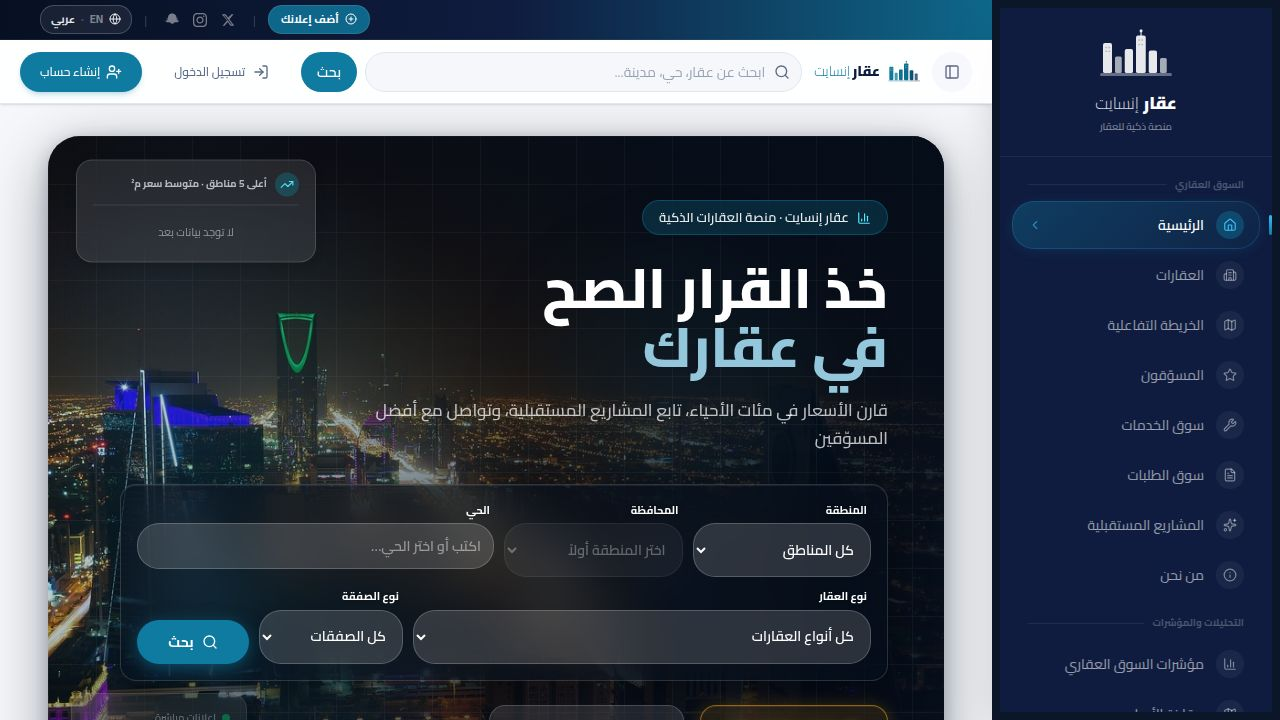
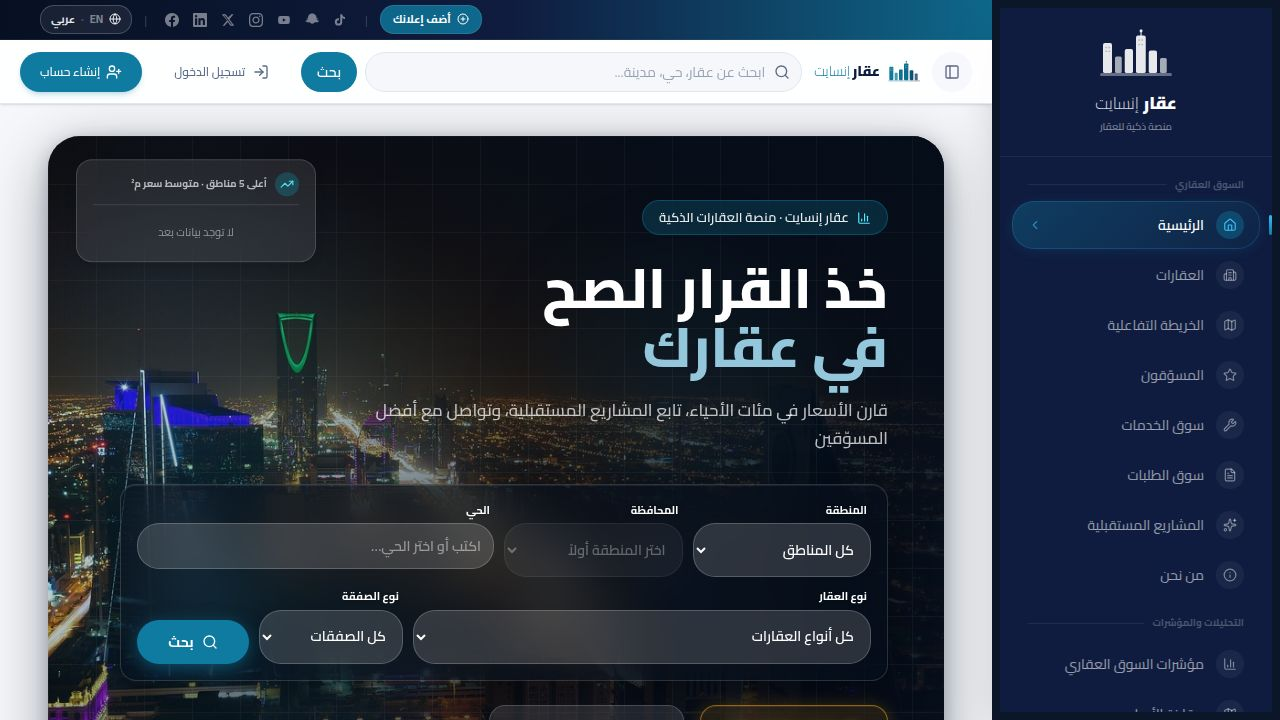
Update currency symbol and display across the platform
Replaces "ر.س" with the new "ريال" symbol and integrates the SAR component for consistent currency display throughout the application.

Replit-Commit-Author: Agent
Replit-Commit-Session-Id: f1be056f-fc4a-4461-962c-60d03f6b6cb3
Replit-Commit-Checkpoint-Type: full_checkpoint
Replit-Commit-Event-Id: 78c0eff8-c467-4001-96b4-43b6fba2e3d2
Replit-Commit-Screenshot-Url: https://storage.googleapis.com/screenshot-production-us-central1/24f6cca2-97a5-4cb7-90fe-09117eb86dda/f1be056f-fc4a-4461-962c-60d03f6b6cb3/ckUJQya
Replit-Helium-Checkpoint-Created: true

diff --git a/artifacts/aqar-monitor/src/pages/home.tsx b/artifacts/aqar-monitor/src/pages/home.tsx
@@ -230,7 +230,7 @@ function ListingCard({ listing }: { listing: Listing }) {
           <div className="mt-auto pt-3 border-t border-border/50">
             {/* السعر + المساحة في صف واحد */}
             <div className="flex items-center justify-between gap-1 mb-1.5">
-              <span className="text-[15px] font-extrabold text-foreground min-w-0 truncate">{formatCurrency(listing.price)}</span>
+              <span className="text-[15px] font-extrabold text-foreground min-w-0 truncate"><SAR value={listing.price} /></span>
               {listing.areaSqm ? (
                 <span className="flex-shrink-0 bg-muted rounded-md px-1.5 py-0.5 text-[11px] text-muted-foreground whitespace-nowrap">
                   {formatNumber(listing.areaSqm)} م²
@@ -543,8 +543,8 @@ export default function Home() {
                       <div key={r.region} className="flex items-center justify-between py-1.5"
                         style={i > 0 ? { borderTop: "1px solid rgba(255,255,255,0.07)" } : {}}>
                         <span className="text-[11px] text-white/80 font-medium truncate max-w-[120px]">{r.region}</span>
-                        <span className="text-[12px] font-black text-white tabular-nums">
-                          {formatCurrency(r.avgPricePerSqm ?? 0)}
+                        <span className="text-[12px] font-black text-white tabular-nums" style={{ "--riyal-filter": "invert(1)" } as React.CSSProperties}>
+                          <SAR value={r.avgPricePerSqm ?? 0} perSqm />
                         </span>
                       </div>
                     ))
@@ -777,7 +777,7 @@ export default function Home() {
                 >
                   {[
                     { label: "إعلان نشط", value: formatNumber(kpis?.totalListings), icon: Building2, color: "#0F7BA0" },
-                    { label: "متوسط سعر المتر", value: formatCurrency(kpis?.avgPricePerSqm), icon: Banknote, color: "#10b981" },
+                    { label: "متوسط سعر المتر", value: <SAR value={kpis?.avgPricePerSqm} perSqm imgClassName="invert" />, icon: Banknote, color: "#10b981" },
                     { label: "إعلانات هذا الشهر", value: formatNumber(kpis?.newLast30Days), icon: Activity, color: "#8b5cf6" },
                   ].map((s, i) => (
                     <div key={s.label} className="flex items-center gap-3 group/stat">
@@ -923,7 +923,8 @@ export default function Home() {
             </div>
             <div className="flex gap-4 overflow-x-auto pb-3 -mx-1 px-1" style={{ scrollbarWidth: "none" }}>
               {(latestServices ?? []).slice(0, 8).map(sp => {
-                const imgs = (() => { try { return JSON.parse(sp.portfolioImages ?? "[]") as string[]; } catch { return []; } })();
+                const imgs = (() => { try { return JSON.parse((sp as any).portfolioImages ?? "[]") as string[]; } catch { return []; } })();
+                const heroImg = getImageSrc(imgs[0]) ?? getImageSrc((sp as any).coverImage) ?? getImageSrc((sp as any).profileImage);
                 return (
                   <Link key={sp.id} href={`/services/${sp.id}`}
                     className="shrink-0 w-[240px] rounded-2xl overflow-hidden flex flex-col hover:-translate-y-0.5 transition-transform"
@@ -931,8 +932,8 @@ export default function Home() {
                   >
                     <div className="h-[120px] relative overflow-hidden"
                       style={{ background: "linear-gradient(135deg, #0B1628 0%, #0F3A5C 60%, #0F7BA0 100%)" }}>
-                      {imgs[0]
-                        ? <img src={getImageSrc(imgs[0])} alt={sp.businessName} className="w-full h-full object-cover" />
+                      {heroImg
+                        ? <img src={heroImg} alt={sp.businessName} className="w-full h-full object-cover" />
                         : <div className="w-full h-full flex items-center justify-center opacity-30">
                             <Wrench className="w-10 h-10 text-white" />
                           </div>
@@ -1427,8 +1428,8 @@ export default function Home() {
                             <td className="px-5 py-3.5">
                               <span className="inline-flex items-center justify-center bg-primary/10 text-primary text-[12px] font-bold rounded-lg px-2.5 py-0.5">{r.count}</span>
                             </td>
-                            <td className="px-5 py-3.5 font-semibold text-foreground">{formatCurrency(r.avgPrice)}</td>
-                            <td className="px-5 py-3.5 text-muted-foreground">{r.avgPricePerSqm > 0 ? formatCurrency(r.avgPricePerSqm) : "—"}</td>
+                            <td className="px-5 py-3.5 font-semibold text-foreground"><SAR value={r.avgPrice} /></td>
+                            <td className="px-5 py-3.5 text-muted-foreground">{r.avgPricePerSqm > 0 ? <SAR value={r.avgPricePerSqm} perSqm /> : "—"}</td>
                           </tr>
                         ))}
                       </tbody>
@@ -1466,7 +1467,7 @@ export default function Home() {
                             <td className="px-5 py-3.5">
                               <span className="inline-flex items-center justify-center bg-accent/10 text-accent-foreground text-[12px] font-bold rounded-lg px-2.5 py-0.5">{d.count}</span>
                             </td>
-                            <td className="px-5 py-3.5 font-semibold text-foreground">{d.avgPricePerSqm > 0 ? formatCurrency(d.avgPricePerSqm) : "—"}</td>
+                            <td className="px-5 py-3.5 font-semibold text-foreground">{d.avgPricePerSqm > 0 ? <SAR value={d.avgPricePerSqm} perSqm /> : "—"}</td>
                           </tr>
                         ))}
                       </tbody>
@@ -1547,8 +1548,8 @@ export default function Home() {
                             regionMetric === "count"
                               ? "عدد الإعلانات"
                               : regionMetric === "avgPrice"
-                              ? "متوسط السعر (ر.س)"
-                              : "سعر المتر (ر.س/م²)",
+                              ? "متوسط السعر (ريال)"
+                              : "سعر المتر (ريال/م²)",
                           ]}
                           labelFormatter={(label) => `📍 ${label}`}
                         />

diff --git a/artifacts/aqar-monitor/src/pages/districts.tsx b/artifacts/aqar-monitor/src/pages/districts.tsx
@@ -2,6 +2,7 @@ import { useState, useEffect, useRef, useMemo } from "react";
 import { Layout } from "@/components/layout/layout";
 import { useQuery } from "@tanstack/react-query";
 import { formatCurrency } from "@/lib/utils";
+import { SAR } from "@/components/sar-amount";
 import { LISTING_TYPE_GROUPS } from "@/lib/listing-types";
 import { SAUDI_REGIONS_LIST } from "@/lib/saudi-geo";
 import { Skeleton } from "@/components/ui/skeleton";
@@ -100,11 +101,11 @@ function BarTooltip({ active, payload, label, avgPsm }: {
       <div className="space-y-2">
         <div className="flex justify-between gap-6 items-center">
           <span className="text-muted-foreground text-xs">سعر المتر</span>
-          <span className="font-black text-sm" style={{ color: "#0F7BA0" }}>{formatCurrency(d.avgPricePerSqm)} / م²</span>
+          <span className="font-black text-sm" style={{ color: "#0F7BA0" }}><SAR value={d.avgPricePerSqm} perSqm /></span>
         </div>
         <div className="flex justify-between gap-6 items-center">
           <span className="text-muted-foreground text-xs">متوسط السعر</span>
-          <span className="font-bold text-foreground text-xs">{d.avgPrice > 0 ? formatCurrency(d.avgPrice) : "—"}</span>
+          <span className="font-bold text-foreground text-xs">{d.avgPrice > 0 ? <SAR value={d.avgPrice} /> : "—"}</span>
         </div>
         <div className="flex justify-between gap-6 items-center">
           <span className="text-muted-foreground text-xs">عدد الإعلانات</span>
@@ -370,8 +371,8 @@ function DistrictHeatMap({ districts, overallAvgPsm }: { districts: DistrictMapD
 
             <div className="grid grid-cols-2 sm:grid-cols-4 gap-3 mb-4">
               {[
-                { label: "متوسط السعر",    val: formatCurrency(selected.avgPrice),       accent: true },
-                { label: "سعر المتر",       val: `${formatCurrency(selected.avgPricePerSqm)} / م²`, accent: false },
+                { label: "متوسط السعر",    val: <SAR value={selected.avgPrice} />,             accent: true },
+                { label: "سعر المتر",       val: <><SAR value={selected.avgPricePerSqm} /> / م²</>, accent: false },
                 { label: "الإعلانات",       val: `${selected.count} إعلان`,              accent: false },
                 {
                   label: "مقارنة بالسوق",
@@ -630,7 +631,7 @@ function DistrictComparison({ districts, avgPsm }: { districts: InsightsDistrict
                 </div>
                 <div>
                   <div className="text-2xl font-black text-foreground leading-none">
-                    {d.avgPricePerSqm > 0 ? formatCurrency(d.avgPricePerSqm) : "—"}
+                    {d.avgPricePerSqm > 0 ? <SAR value={d.avgPricePerSqm} perSqm /> : "—"}
                   </div>
                   <div className="text-xs text-muted-foreground mt-0.5">ريال / م²</div>
                 </div>
@@ -904,7 +905,7 @@ export default function Districts() {
               <div className="mt-5 flex items-center gap-2.5 text-xs bg-[#FFFBEB] rounded-xl px-4 py-2.5 border border-[#FDE68A] w-fit">
                 <span className="w-5 h-0.5 bg-amber-400 shrink-0 rounded" style={{ borderTop: "2px dashed #F59E0B" }} />
                 <span className="text-amber-700 font-semibold">متوسط سعر السوق:</span>
-                <span className="font-black text-amber-800">{formatCurrency(avgPsm)} / م²</span>
+                <span className="font-black text-amber-800"><SAR value={avgPsm} perSqm /></span>
               </div>
             )}
 
@@ -1038,10 +1039,10 @@ export default function Districts() {
                             </span>
                           </td>
                           <td className="px-5 py-4 font-bold text-foreground">
-                            {d.avgPrice > 0 ? formatCurrency(d.avgPrice) : "—"}
+                            {d.avgPrice > 0 ? <SAR value={d.avgPrice} /> : "—"}
                           </td>
                           <td className="px-5 py-4 font-semibold text-muted-foreground text-[13px]">
-                            {d.avgPricePerSqm > 0 ? formatCurrency(d.avgPricePerSqm) : "—"}
+                            {d.avgPricePerSqm > 0 ? <SAR value={d.avgPricePerSqm} perSqm /> : "—"}
                           </td>
                           <td className="px-5 py-4">
                             <LabelBadge label={lbl} small />

diff --git a/artifacts/aqar-monitor/src/pages/admin-reports.tsx b/artifacts/aqar-monitor/src/pages/admin-reports.tsx
@@ -3,7 +3,8 @@ import { useQuery } from "@tanstack/react-query";
 import { Layout } from "@/components/layout/layout";
 import { Skeleton } from "@/components/ui/skeleton";
 import { Tabs, TabsList, TabsTrigger, TabsContent } from "@/components/ui/tabs";
-import { formatCurrency, formatNumber } from "@/lib/utils";
+import { formatNumber } from "@/lib/utils";
+import { SAR } from "@/components/sar-amount";
 import { LISTING_TYPE_SHORT_MAP } from "@/lib/listing-types";
 import { motion } from "framer-motion";
 import {
@@ -392,11 +393,11 @@ export default function AdminReports() {
             <div className="grid grid-cols-1 sm:grid-cols-3 gap-3">
               <div className="bg-card rounded-2xl border border-border/60 p-4 shadow-sm">
                 <div className="text-xs font-bold text-muted-foreground mb-1">متوسط السعر</div>
-                {isLoading ? <Skeleton className="h-7 w-32" /> : <div className="text-xl font-extrabold text-primary">{formatCurrency(Number(data?.listings.priceStats?.avg_price ?? 0))}</div>}
+                {isLoading ? <Skeleton className="h-7 w-32" /> : <div className="text-xl font-extrabold text-primary"><SAR value={Number(data?.listings.priceStats?.avg_price ?? 0)} /></div>}
               </div>
               <div className="bg-card rounded-2xl border border-border/60 p-4 shadow-sm">
                 <div className="text-xs font-bold text-muted-foreground mb-1">متوسط سعر المتر</div>
-                {isLoading ? <Skeleton className="h-7 w-32" /> : <div className="text-xl font-extrabold text-foreground">{formatCurrency(Number(data?.listings.priceStats?.avg_psm ?? 0))}</div>}
+                {isLoading ? <Skeleton className="h-7 w-32" /> : <div className="text-xl font-extrabold text-foreground"><SAR value={Number(data?.listings.priceStats?.avg_psm ?? 0)} perSqm /></div>}
               </div>
               <div className="bg-card rounded-2xl border border-border/60 p-4 shadow-sm">
                 <div className="text-xs font-bold text-muted-foreground mb-1">موثّق (Verified)</div>
@@ -505,16 +506,16 @@ export default function AdminReports() {
             <div className="grid grid-cols-1 sm:grid-cols-3 gap-3">
               <div className="bg-card rounded-2xl border border-border/60 p-4 shadow-sm">
                 <div className="text-xs font-bold text-muted-foreground mb-1">متوسط السعر الكلي</div>
-                {isLoading ? <Skeleton className="h-7 w-32" /> : <div className="text-xl font-extrabold text-primary">{formatCurrency(Number(data?.listings.priceStats?.avg_price ?? 0))}</div>}
+                {isLoading ? <Skeleton className="h-7 w-32" /> : <div className="text-xl font-extrabold text-primary"><SAR value={Number(data?.listings.priceStats?.avg_price ?? 0)} /></div>}
                 <div className="text-[11px] text-muted-foreground mt-1">على الإعلانات النشطة</div>
               </div>
               <div className="bg-card rounded-2xl border border-border/60 p-4 shadow-sm">
                 <div className="text-xs font-bold text-muted-foreground mb-1">متوسط سعر المتر</div>
-                {isLoading ? <Skeleton className="h-7 w-32" /> : <div className="text-xl font-extrabold text-foreground">{formatCurrency(Number(data?.listings.priceStats?.avg_psm ?? 0))}</div>}
+                {isLoading ? <Skeleton className="h-7 w-32" /> : <div className="text-xl font-extrabold text-foreground"><SAR value={Number(data?.listings.priceStats?.avg_psm ?? 0)} perSqm /></div>}
               </div>
               <div className="bg-card rounded-2xl border border-border/60 p-4 shadow-sm">
                 <div className="text-xs font-bold text-muted-foreground mb-1">أعلى سعر مسجّل</div>
-                {isLoading ? <Skeleton className="h-7 w-32" /> : <div className="text-xl font-extrabold text-foreground">{formatCurrency(Number(data?.listings.priceStats?.max_price ?? 0))}</div>}
+                {isLoading ? <Skeleton className="h-7 w-32" /> : <div className="text-xl font-extrabold text-foreground"><SAR value={Number(data?.listings.priceStats?.max_price ?? 0)} /></div>}
               </div>
             </div>
             <SectionCard title="أعلى المدن سعراً لمتر" sub="مبني على الإعلانات النشطة فقط">

diff --git a/artifacts/aqar-monitor/src/components/listings-map.tsx b/artifacts/aqar-monitor/src/components/listings-map.tsx
@@ -54,9 +54,9 @@ const SAUDI_CITIES: Record<string, [number, number]> = {
 };
 
 function formatPrice(n: number) {
-  if (n >= 1_000_000) return `${(n / 1_000_000).toFixed(1)}م ر.س`;
-  if (n >= 1_000) return `${(n / 1_000).toFixed(0)}ألف ر.س`;
-  return `${n} ر.س`;
+  if (n >= 1_000_000) return `${(n / 1_000_000).toFixed(1)}م ريال`;
+  if (n >= 1_000) return `${(n / 1_000).toFixed(0)}ألف ريال`;
+  return `${n} ريال`;
 }
 
 type Props = {

diff --git a/artifacts/aqar-monitor/src/pages/records.tsx b/artifacts/aqar-monitor/src/pages/records.tsx
@@ -8,7 +8,7 @@ import { Select, SelectContent, SelectGroup, SelectItem, SelectLabel, SelectTrig
 import { Badge } from "@/components/ui/badge";
 import { Skeleton } from "@/components/ui/skeleton";
 import { Download, Search, ChevronRight, ChevronLeft } from "lucide-react";
-import { formatCurrency } from "@/lib/utils";
+import { SAR } from "@/components/sar-amount";
 import { LISTING_TYPE_GROUPS, LISTING_TYPE_MAP } from "@/lib/listing-types";
 
 const BASE = () => (import.meta.env.BASE_URL ?? "/").replace(/\/$/, "");
@@ -228,12 +228,12 @@ export default function Records() {
                               {statusLabel(item.status)}
                             </Badge>
                           </td>
-                          <td className="px-4 py-3 font-medium">{formatCurrency(item.price)}</td>
+                          <td className="px-4 py-3 font-medium"><SAR value={item.price} /></td>
                           <td className="px-4 py-3 text-muted-foreground">
                             {item.areaSqm ? `${item.areaSqm} م²` : "—"}
                           </td>
                           <td className="px-4 py-3 text-muted-foreground">
-                            {item.pricePerSqm ? formatCurrency(item.pricePerSqm) : "—"}
+                            {item.pricePerSqm ? <SAR value={item.pricePerSqm} perSqm /> : "—"}
                           </td>
                           <td className="px-4 py-3 text-muted-foreground">
                             {new Date(item.createdAt).toLocaleDateString("en-GB")}

diff --git a/artifacts/aqar-monitor/src/pages/dashboard.tsx b/artifacts/aqar-monitor/src/pages/dashboard.tsx
@@ -8,7 +8,8 @@ import { Skeleton } from "@/components/ui/skeleton";
 import { ListingCard, type ListingCardData } from "@/components/listing-card";
 import { useAuth } from "@/contexts/auth-context";
 import { useToast } from "@/hooks/use-toast";
-import { formatCurrency, getImageSrc } from "@/lib/utils";
+import { getImageSrc } from "@/lib/utils";
+import { SAR } from "@/components/sar-amount";
 import {
   Building2, Heart, FileText, PlusCircle, Edit, Trash2,
   MapPin, Eye, LayoutDashboard, CheckCircle, Archive, Ban,
@@ -241,7 +242,7 @@ export default function Dashboard() {
                                 {l.city}{l.district ? ` · ${l.district}` : ""}
                               </div>
                               <div className="flex flex-wrap items-center justify-between gap-3">
-                                <p className="text-xl font-extrabold text-foreground">{formatCurrency(l.price)}</p>
+                                <p className="text-xl font-extrabold text-foreground"><SAR value={l.price} /></p>
                                 {/* Action Buttons */}
                                 <div className="flex flex-wrap gap-2">
                                   {/* View */}

diff --git a/artifacts/aqar-monitor/src/pages/my-listings.tsx b/artifacts/aqar-monitor/src/pages/my-listings.tsx
@@ -6,7 +6,8 @@ import { Badge } from "@/components/ui/badge";
 import { Skeleton } from "@/components/ui/skeleton";
 import { useAuth } from "@/contexts/auth-context";
 import { useToast } from "@/hooks/use-toast";
-import { formatCurrency, getImageSrc } from "@/lib/utils";
+import { getImageSrc } from "@/lib/utils";
+import { SAR } from "@/components/sar-amount";
 import type { Listing } from "@workspace/db";
 import {
   PlusCircle, Building2, Eye, Edit, Trash2, RotateCcw,
@@ -134,7 +135,7 @@ function ListingRow({
               </h3>
             </Link>
             <p className="text-primary font-extrabold text-lg shrink-0">
-              {formatCurrency(listing.price)}
+              <SAR value={listing.price} />
             </p>
           </div>
 

diff --git a/artifacts/aqar-monitor/src/components/property-map.tsx b/artifacts/aqar-monitor/src/components/property-map.tsx
@@ -119,7 +119,7 @@ function makePinIcon(listing: MapPin, isActive: boolean): L.DivIcon {
             font-weight:800;
             color:#0F1C3F;
             letter-spacing:-0.3px;
-          ">ر.س ${priceText}</span>
+          ">${priceText} ريال</span>
           <span style="
             font-size:10px;
             font-weight:600;
@@ -172,7 +172,7 @@ function makePopupHtml(pin: MapPin): string {
         <div style="font-size:16px;font-weight:800;color:#0F1C3F;margin-bottom:4px;line-height:1.3;max-width:180px;overflow:hidden;text-overflow:ellipsis;white-space:nowrap;">${pin.title}</div>
         <div style="font-size:12px;color:#666;margin-bottom:8px;">📍 ${pin.city}${pin.district ? ` · ${pin.district}` : ""}</div>
         <div style="display:flex;align-items:center;justify-content:space-between;margin-bottom:10px;">
-          <div style="font-size:17px;font-weight:900;color:${color};">ر.س ${pin.price.toLocaleString("en-US")}</div>
+          <div style="font-size:17px;font-weight:900;color:${color};">${pin.price.toLocaleString("en-US")} ريال</div>
           ${pin.areaSqm ? `<div style="font-size:11px;color:#888;">${pin.areaSqm} م²</div>` : ""}
         </div>
         <a href="${href}" style="

diff --git a/artifacts/aqar-monitor/src/lib/utils.ts b/artifacts/aqar-monitor/src/lib/utils.ts
@@ -6,10 +6,10 @@ export function cn(...inputs: ClassValue[]) {
 }
 
 export function formatCurrency(value: number | undefined | null): string {
-  if (value === undefined || value === null) return "0 ر.س";
+  if (value === undefined || value === null) return "0 ريال";
   return new Intl.NumberFormat("en-US", {
     maximumFractionDigits: 0,
-  }).format(value) + " ر.س";
+  }).format(value) + " ريال";
 }
 
 export function formatNumber(value: number | undefined | null): string {

diff --git a/artifacts/api-server/src/routes/service-providers.ts b/artifacts/api-server/src/routes/service-providers.ts
@@ -23,6 +23,8 @@ serviceProvidersRouter.get("/", async (req: Request, res: Response) => {
       description: serviceProvidersTable.description,
       startingPrice: serviceProvidersTable.startingPrice,
       portfolioImages: serviceProvidersTable.portfolioImages,
+      coverImage: serviceProvidersTable.coverImage,
+      profileImage: serviceProvidersTable.profileImage,
       verified: serviceProvidersTable.verified,
       ratingAvg: serviceProvidersTable.ratingAvg,
       ratingCount: serviceProvidersTable.ratingCount,

diff --git a/artifacts/aqar-monitor/src/components/sar-amount.tsx b/artifacts/aqar-monitor/src/components/sar-amount.tsx
@@ -27,5 +27,5 @@ export function SAR({ value, className = "", imgClassName = "", perSqm = false }
 
 export function SARStr(value: number | null | undefined): string {
   const n = value ?? 0;
-  return n.toLocaleString("en-US", { maximumFractionDigits: 0 }) + " ر.س";
+  return n.toLocaleString("en-US", { maximumFractionDigits: 0 }) + " ريال";
 }

diff --git a/artifacts/aqar-monitor/src/pages/admin-add.tsx b/artifacts/aqar-monitor/src/pages/admin-add.tsx
@@ -249,7 +249,7 @@ export default function AdminAdd() {
                       <div className="flex items-center gap-2 text-sm text-primary font-medium">
                         <span>سعر المتر المربع (محسوب تلقائياً):</span>
                         <span className="font-bold">
-                          {pricePerSqm.toLocaleString("en-US", { maximumFractionDigits: 0 })} ر.س/م²
+                          {pricePerSqm.toLocaleString("en-US", { maximumFractionDigits: 0 })} ريال/م²
                         </span>
                       </div>
                     )}